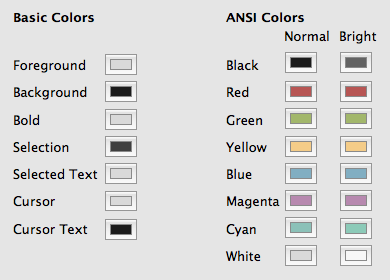
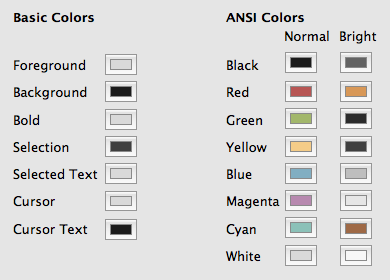
Updates readme and adds images of default 256

diff --git a/README.md b/README.md
@@ -2,4 +2,8 @@
 See the [Base16 repository](https://github.com/chriskempson/base16) for more information.  
 This theme was built with [Base16 Builder](https://github.com/chriskempson/base16-builder).
 
-![Base16 iTerm2](https://raw.github.com/chriskempson/base16-iterm2/master/base16-iterm2.png)
+![Base16 Default iTerm2](https://raw.github.com/chriskempson/base16-iterm2/master/base16-iterm2.png)
+![Base16 Default iTerm2 256](https://raw.github.com/chriskempson/base16-iterm2/master/base16-iterm-256.png)
+
+## "256" Variations
+The 256 variations are provided for those people who use a lot of colored command line programs and wish to keep the default 16 ANSI colors intact. If this means nothing to you please make use of the default 16 color versions (the files without 256 in them). On the other hand if you'd like to keep your 16 ANSI colors intact, go ahead and use the 256 color variations but please note you'll need to modify some of the 256 colorspace with the [Base16 Shell](https://github.com/chriskempson/base16-shell) script.
